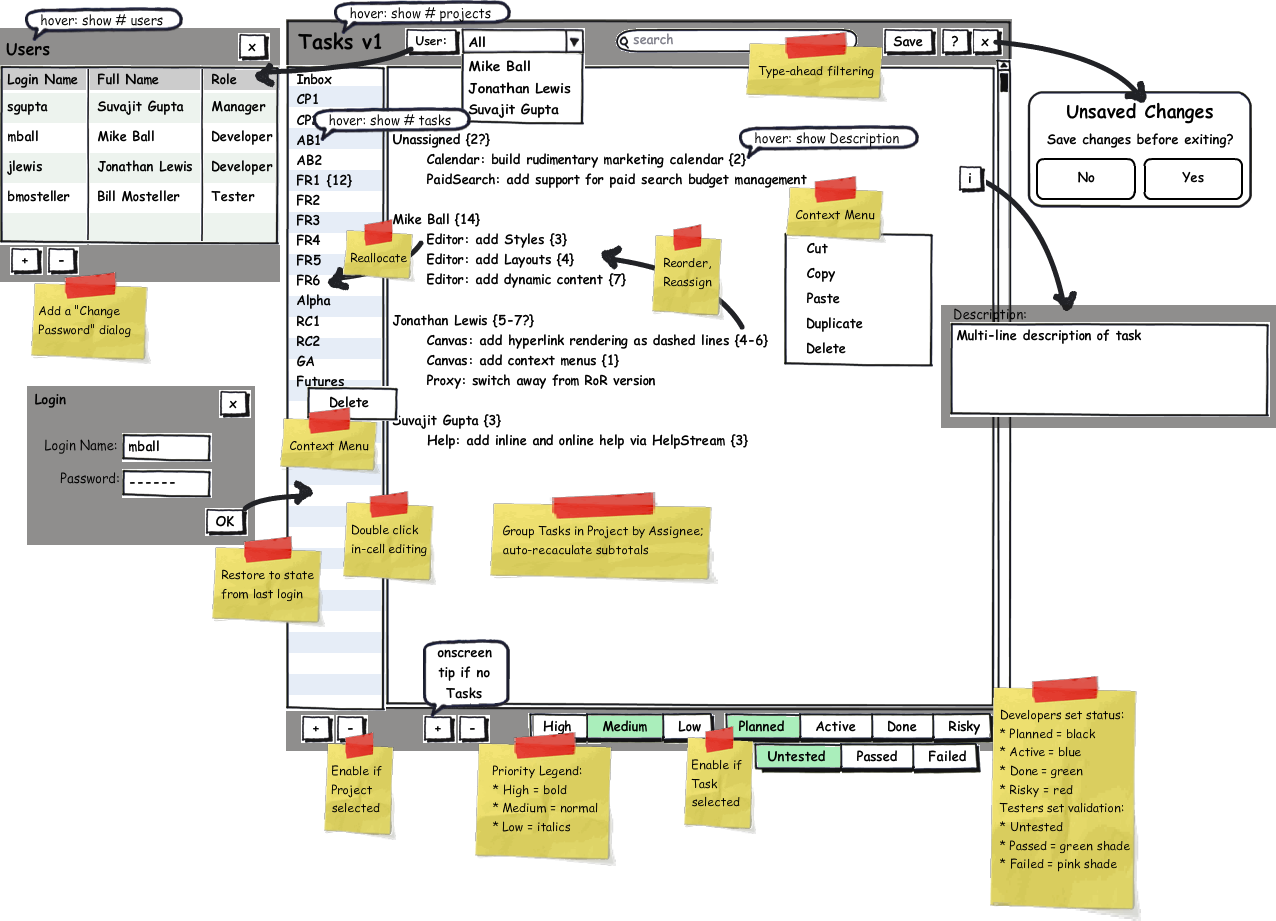
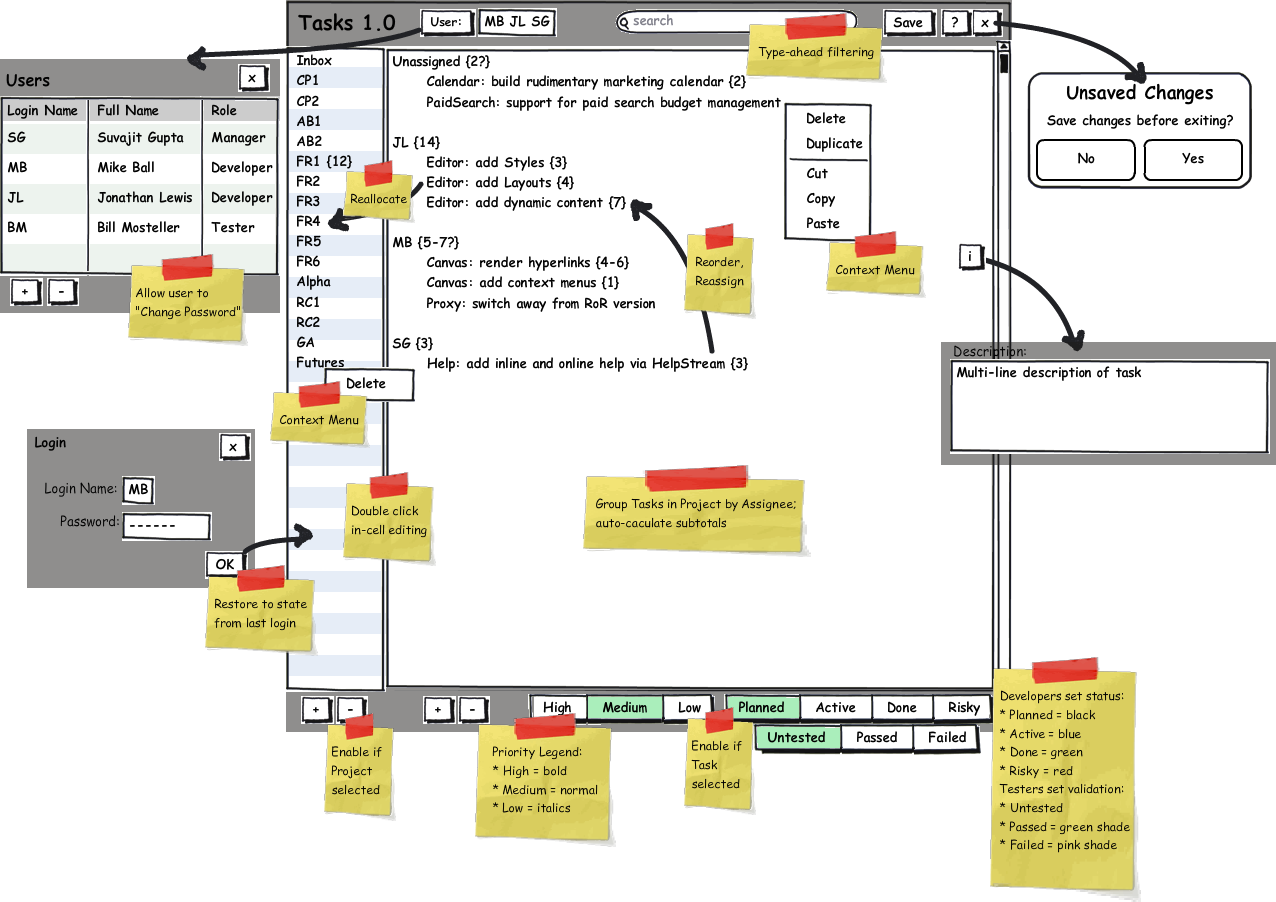
Added Export panel, updated TasksPlan, misc refinements

Changed region(s): [[0.0, 0.0, 1.0, 0.9623]]

diff --git a/apps/tasks/controllers/export_data.js b/apps/tasks/controllers/export_data.js
@@ -15,53 +15,67 @@ sc_require('core');
 Tasks.exportDataController = SC.ObjectController.create(
 /** @scope Orion.ExportDataController.prototype */ {
 
-   /**
-    * Export data to external text file.
-    */
-    exportData: function() {
+  data: '',
+  
+  openPanel: function(){
+    this._exportData();
+    var panel = Tasks.getPath('exportDataPage.panel');
+    if(panel) panel.append();
+  },
+
+  closePanel: function(){
+    var panel = Tasks.getPath('exportDataPage.panel');
+    panel.remove();
+    panel.destroy();
+  },
+  
+  /**
+  * Export data to external text file.
+  */
+  _exportData: function() {
     var val, task, user;
     var data = "# Tasks data export at " + new Date().format('MMM dd, yyyy hh:mm:ssa') + '\n\n';
     var pc = Tasks.get('projectsController');
 
     pc.forEach(function(rec){
-          if (rec.get('name') === CoreTasks.ALL_TASKS_NAME) return;
-          var tasks = rec.get('tasks');
-          var len = tasks.get('length');
-          if(rec.get('name') !== CoreTasks.INBOX_NAME) {
-            data += rec.get('displayName') + '\n';
+      if (rec.get('name') === CoreTasks.ALL_TASKS_NAME) return;
+      var tasks = rec.get('tasks');
+      var len = tasks.get('length');
+      if(rec.get('name') !== CoreTasks.INBOX_NAME) {
+        data += rec.get('displayName') + '\n';
+      }
+      for (var i = 0; i < len; i++) {
+        task = tasks.objectAt(i);
+        switch(task.get('priority')) {
+          case CoreTasks.TASK_PRIORITY_HIGH: val = '^'; break;
+          case CoreTasks.TASK_PRIORITY_MEDIUM: val = '-'; break;
+          case CoreTasks.TASK_PRIORITY_LOW: val = 'v'; break;
+        }
+        data += val + ' ';
+        data += task.get('displayName');
+        user = task.get('submitter');
+        if (user) data += ' <' + user.get('loginName') + '>';
+        user = task.get('assignee');
+        if (user) data += ' [' + user.get('loginName') + ']';
+        val = task.get('type');
+        if(val !== CoreTasks.TASK_TYPE_OTHER) data += ' $' + val.loc();
+        val = task.get('status');
+        if(val !== CoreTasks.TASK_STATUS_PLANNED) data += ' @' + val.loc();
+        val = task.get('validation');
+        if(val !== CoreTasks.TASK_VALIDATION_UNTESTED)data += ' %' + val.loc();
+        val = task.get('description');
+        if(val) {
+          var lines = val.split('\n');
+          for (var j = 0; j < lines.length; j++) {
+            data += '\n| ' + lines[j];
           }
-          for (var i = 0; i < len; i++) {
-            task = tasks.objectAt(i);
-            switch(task.get('priority')) {
-              case CoreTasks.TASK_PRIORITY_HIGH: val = '^'; break;
-              case CoreTasks.TASK_PRIORITY_MEDIUM: val = '-'; break;
-              case CoreTasks.TASK_PRIORITY_LOW: val = 'v'; break;
-            }
-            data += val + ' ';
-            data += task.get('displayName');
-            user = task.get('submitter');
-            if (user) data += ' <' + user.get('loginName') + '>';
-            user = task.get('assignee');
-            if (user) data += ' [' + user.get('loginName') + ']';
-            val = task.get('type');
-            if(val !== CoreTasks.TASK_TYPE_OTHER) data += ' $' + val.loc();
-            val = task.get('status');
-            if(val !== CoreTasks.TASK_STATUS_PLANNED) data += ' @' + val.loc();
-            val = task.get('validation');
-            if(val !== CoreTasks.TASK_VALIDATION_UNTESTED)data += ' %' + val.loc();
-            val = task.get('description');
-            if(val) {
-              var lines = val.split('\n');
-              for (var j = 0; j < lines.length; j++) {
-                data += '\n| ' + lines[j];
-              }
-            }
-            data += '\n';
-          }
-          data += '\n';
-      }, pc);
-    
-    console.log(data);
+        }
+        data += '\n';
+      }
+      data += '\n';
+    }, pc);
+
+    this.set('data', data);
   }
-  
+
 });

diff --git a/apps/tasks/controllers/import_data.js b/apps/tasks/controllers/import_data.js
@@ -15,7 +15,8 @@ sc_require('core');
 */
 Tasks.importDataController = SC.ObjectController.create(
 /** @scope Orion.ImportDataController.prototype */ {
-    data: '',
+  
+    importData: '',
     currentProject: null,
     projectTaskMappings: null,
     
@@ -28,13 +29,7 @@ Tasks.importDataController = SC.ObjectController.create(
       var panel = Tasks.getPath('importDataPage.panel');
       panel.remove();
       panel.destroy();
-      this.set('data','');
-    },
-    
-    importData: function(){
-      this._parseAndLoadData(this.get('data'));
-      Tasks.assignmentsController.showAssignments();
-      this.closePanel();
+      this.set('importData','');
     },
     
     /**
@@ -42,8 +37,9 @@ Tasks.importDataController = SC.ObjectController.create(
      *
      * @param {String} data to be parsed.
      */
-    _parseAndLoadData: function(data) {
+    parseAndLoadData: function() {
       
+      var data = this.get('importData');
       this.projectTaskMappings = {};
       var lines = data.split('\n');
       var store = CoreTasks.get('store');
@@ -106,7 +102,7 @@ Tasks.importDataController = SC.ObjectController.create(
 
           var taskRecord = store.createRecord(CoreTasks.Task, taskHash);
           if(!taskRecord) {
-            console.log('Import Error: task creation failed');
+            console.log('Task Import Error: task creation failed');
             continue;
           }
           this.projectTaskMappings[taskRecord.get('name')] = currentProject.get('name');
@@ -141,6 +137,10 @@ Tasks.importDataController = SC.ObjectController.create(
           }
         }
       }
+      
+      Tasks.assignmentsController.showAssignments();
+      this.closePanel();
+      
     },
     
     _addTaskFromImportSuccess: function(storeKey) {

diff --git a/apps/tasks/english.lproj/import_data_page.js b/apps/tasks/english.lproj/import_data_page.js
@@ -22,7 +22,7 @@ Tasks.importDataPage = SC.Page.create({
       childViews: [
         SC.TextFieldView.design({
           layout: { top: 10, left: 10, right: 10, bottom: 40 },
-          valueBinding: 'Tasks.importDataController.data',
+          valueBinding: 'Tasks.importDataController.importData',
           hint: "_ImportHint".loc(),
           isTextArea: YES
         }),
@@ -33,7 +33,7 @@ Tasks.importDataPage = SC.Page.create({
           isDefault: YES,
           title: "_Import".loc(),
           target: 'Tasks.importDataController',
-          action: 'importData'
+          action: 'parseAndLoadData'
         }),
         SC.ButtonView.design({
           layout: { width: 80, height: 30, right: 96, bottom: 8 },

diff --git a/apps/tasks/core_actions.js b/apps/tasks/core_actions.js
@@ -279,7 +279,7 @@ Tasks.mixin({
    * Export data to external text file.
    */
   exportData: function() {
-    Tasks.exportDataController.exportData();  
+    Tasks.exportDataController.openPanel();  
   },
   
   /**
@@ -386,7 +386,6 @@ Tasks.mixin({
       // CHANGE: [SC] Do this without using SC.RunLoop.begin/end, if possible.
       SC.RunLoop.begin();
       var projectsList = Tasks.getPath('mainPage.mainPane.projectsList');
-      console.log("DEBUG: project count = " + projectsList.get('length'));
       projectsList.select(projectsList.get('length') > 2? 2 : 0);
       SC.RunLoop.end();
       

diff --git a/apps/tasks/mixins/simple_button.js b/apps/tasks/mixins/simple_button.js
@@ -103,9 +103,9 @@ Tasks.SimpleButton = { // FIXME: [SG] SimpleButton shouldn't accept clicks when 
     // If there is a toolTip set, grab it and localize if necessary.
     var toolTip = this.get('toolTip') ;
     if (SC.typeOf(toolTip) === SC.T_STRING) {
-      if (this.get('localize')) toolTip = toolTip.loc() ;
-      context.attr('title', toolTip) ;
-      context.attr('alt', toolTip) ;
+      if (this.get('localize')) toolTip = toolTip.loc();
+      context.attr('title', toolTip);
+      context.attr('alt', toolTip);
     }
   },  
   

diff --git a/apps/tasks/views/welcome.js b/apps/tasks/views/welcome.js
@@ -15,7 +15,10 @@ Tasks.WelcomeView = SC.LabelView.extend(
 /** @scope Tasks.WelcomeView.prototype */ {
   
   render: function(context, firstTime) {
-    context.push("<center>Welcome".loc() + '<br>' + CoreTasks.getPath('user.loginName') + ' !</center>');
+    context.push('<center>' + "_Welcome".loc() + '<br>' + CoreTasks.getPath('user.loginName') + ' !</center>');
+    var name = CoreTasks.getPath('user.name');
+    context.attr('title', name);
+    context.attr('alt', name);
   }
   
 });

diff --git a/apps/tasks/views/task_item.js b/apps/tasks/views/task_item.js
@@ -103,7 +103,7 @@ Tasks.TaskItemView = SC.ListItemView.extend(
       context = context.begin('img').attr({
         src: SC.BLANK_IMAGE_URL,
         title: "_DescriptionTooltip".loc(),
-        alt: ''
+        alt: "_DescriptionTooltip".loc()
       }).addClass('description-editor');
       if (hasDescription) {
         context.removeClass('sc-icon-document-24');

diff --git a/apps/tasks/english.lproj/strings.js b/apps/tasks/english.lproj/strings.js
@@ -75,7 +75,8 @@ SC.stringsFor('English', {
   '_Developer': "Developer",
   '_Tester': "Tester",
   
-  // Import Panel strings
-  '_Cancel': "Cancel"
+  // Import/Export Panel strings
+  '_Cancel': "Cancel",
+  '_Close': "Close"
   
 });
